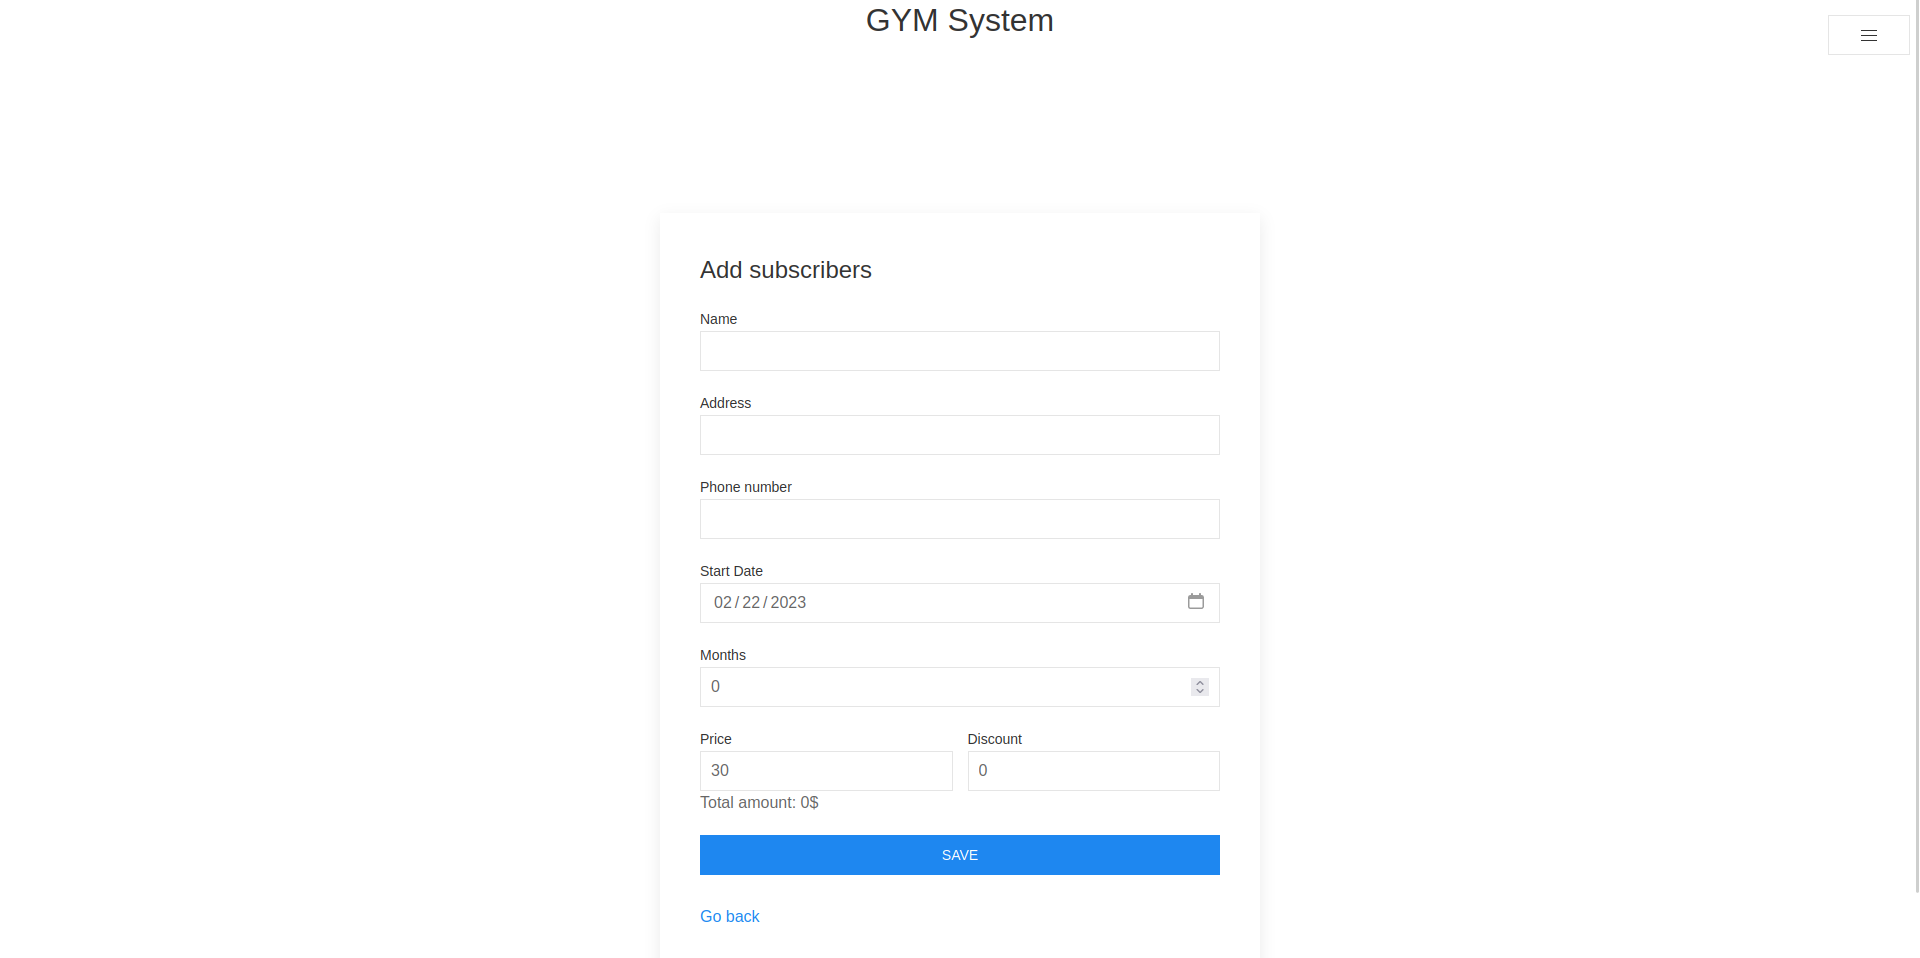
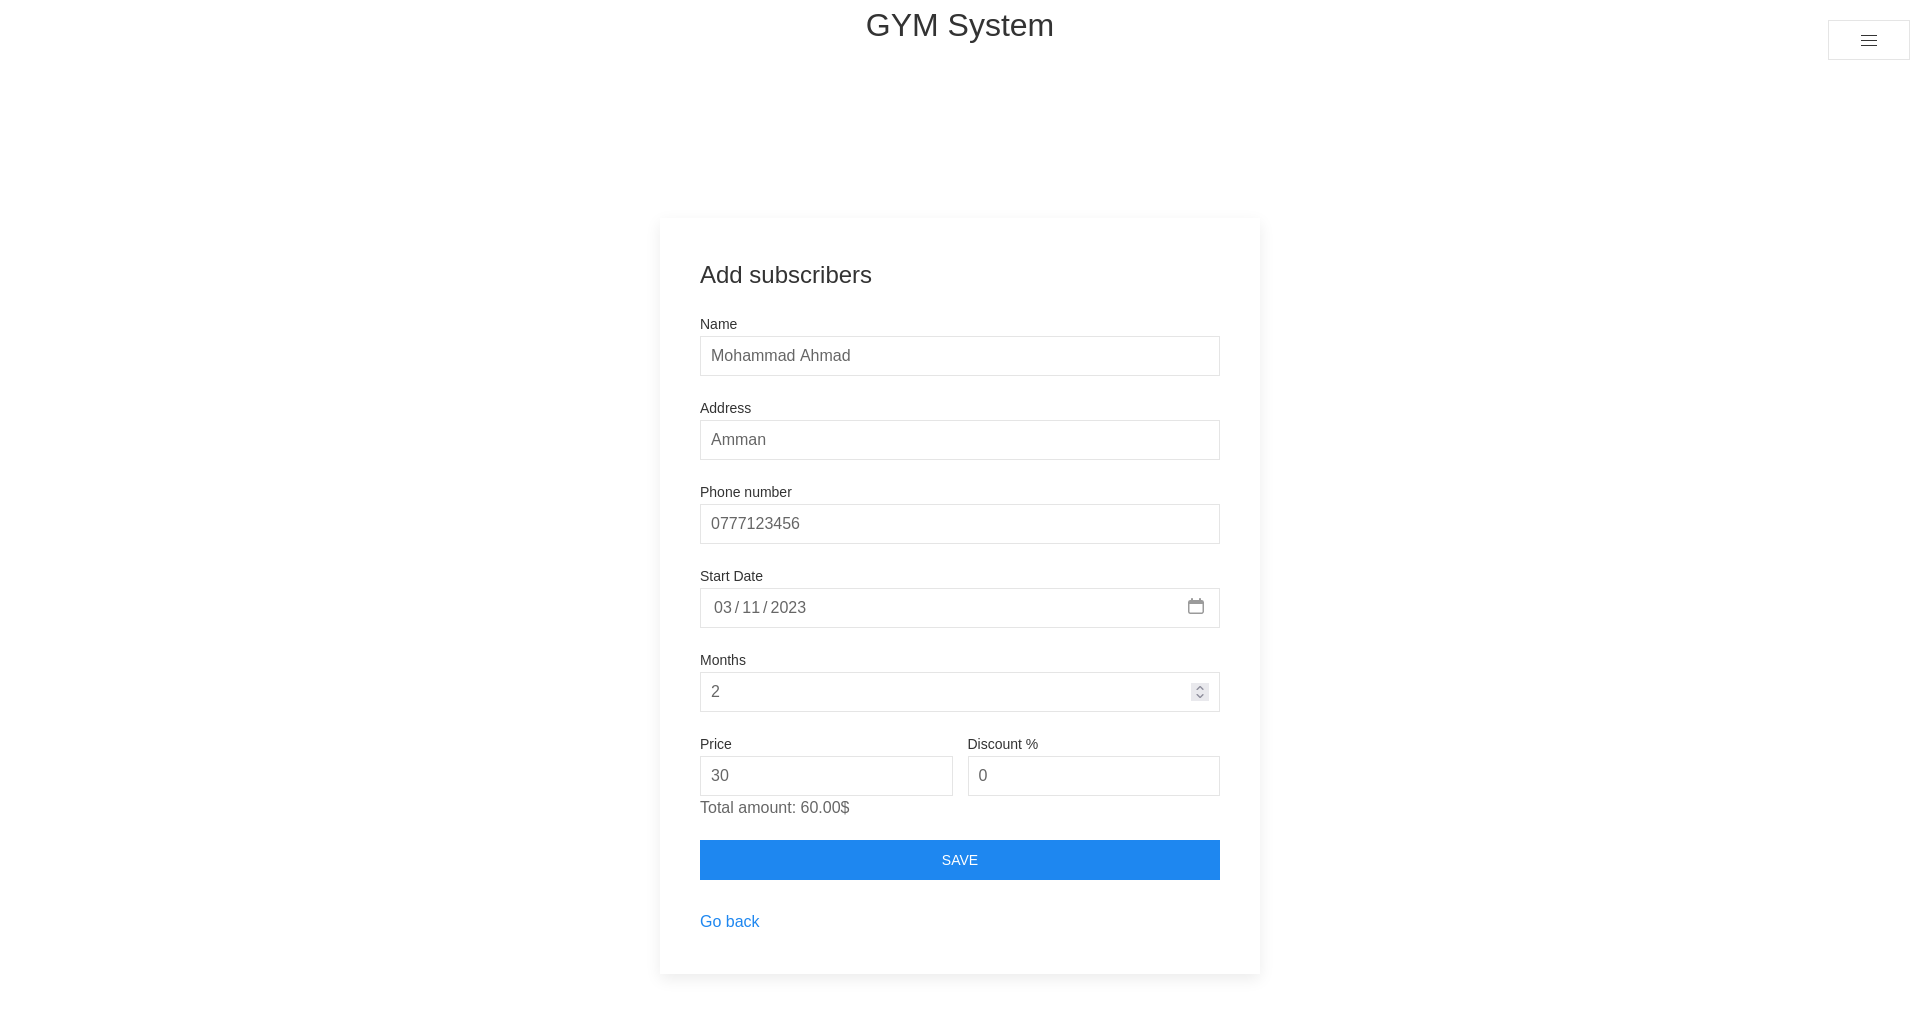
Add new features

diff --git a/public/subscribers/addSubscribers.php b/public/subscribers/addSubscribers.php
@@ -126,7 +126,7 @@ if ($_SERVER['REQUEST_METHOD'] == 'POST' and isset($_POST['submit'])) {
 
 
                     <div class="uk-width-1-2@s">
-                        <label class="uk-form-label" for="form-stacked-text">Discount</label>
+                        <label class="uk-form-label" for="form-stacked-text">Discount %</label>
                         <div class="uk-form-controls">
                             <input type="text" value="0" id="discount" name="discount" class="uk-input" id="form-stacked-text" type="text">
                         </div>

diff --git a/public/subscribers/plans.php b/public/subscribers/plans.php
@@ -21,7 +21,7 @@ $plans = new plan();
             <div class="uk-card uk-card-default uk-card-hover uk-card-body uk-margin-top">
                 <h2 class="uk-card-title"><?= $row['name'] ?></h2>
                 <p><?= $row['about'] ?></p>
-                <div class="uk-h4"><?= $row['price'] ?></div>
+                <div class="uk-h4"><?= $row['price'] ?>$</div>
 
                 <a class="uk-button uk-button-primary" href="addSubscribers.php?planId=<?= $row['id'] ?>&price=<?= $row['price'] ?>">Select</a>
             </div>
